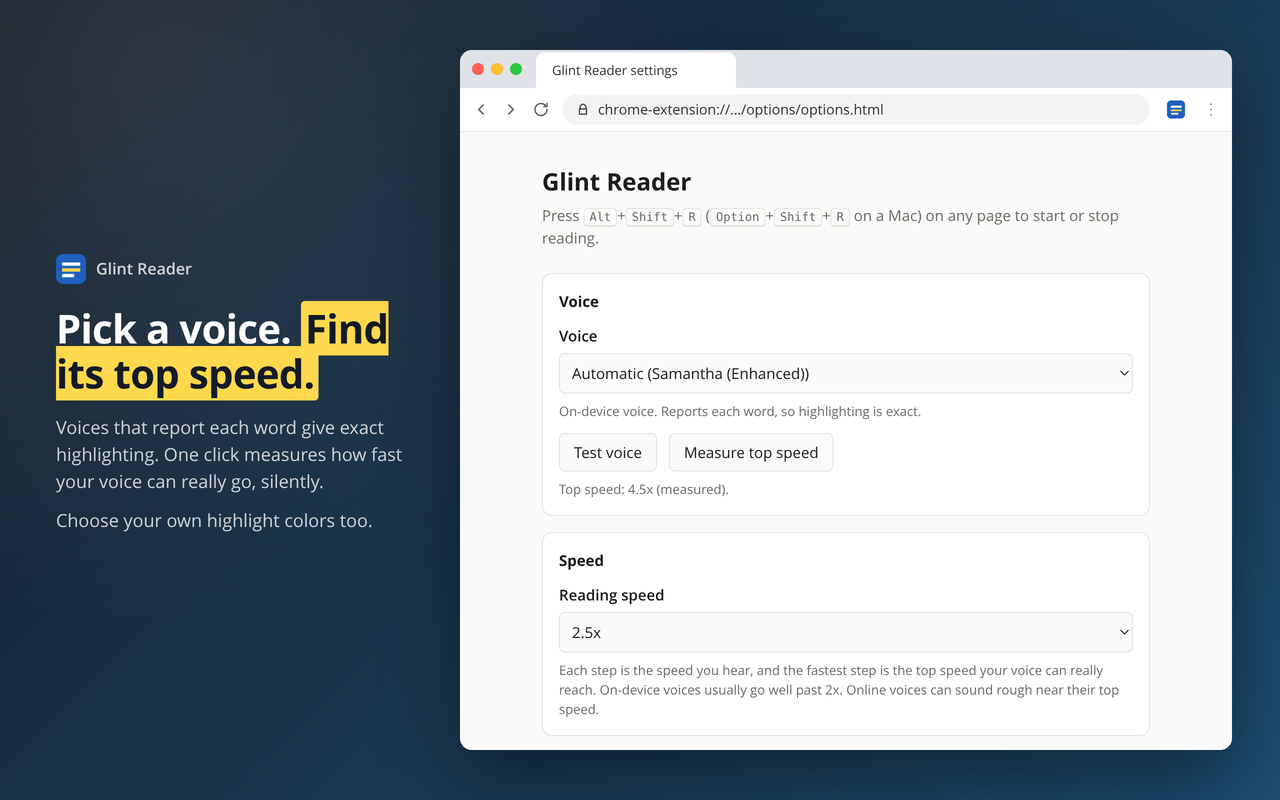
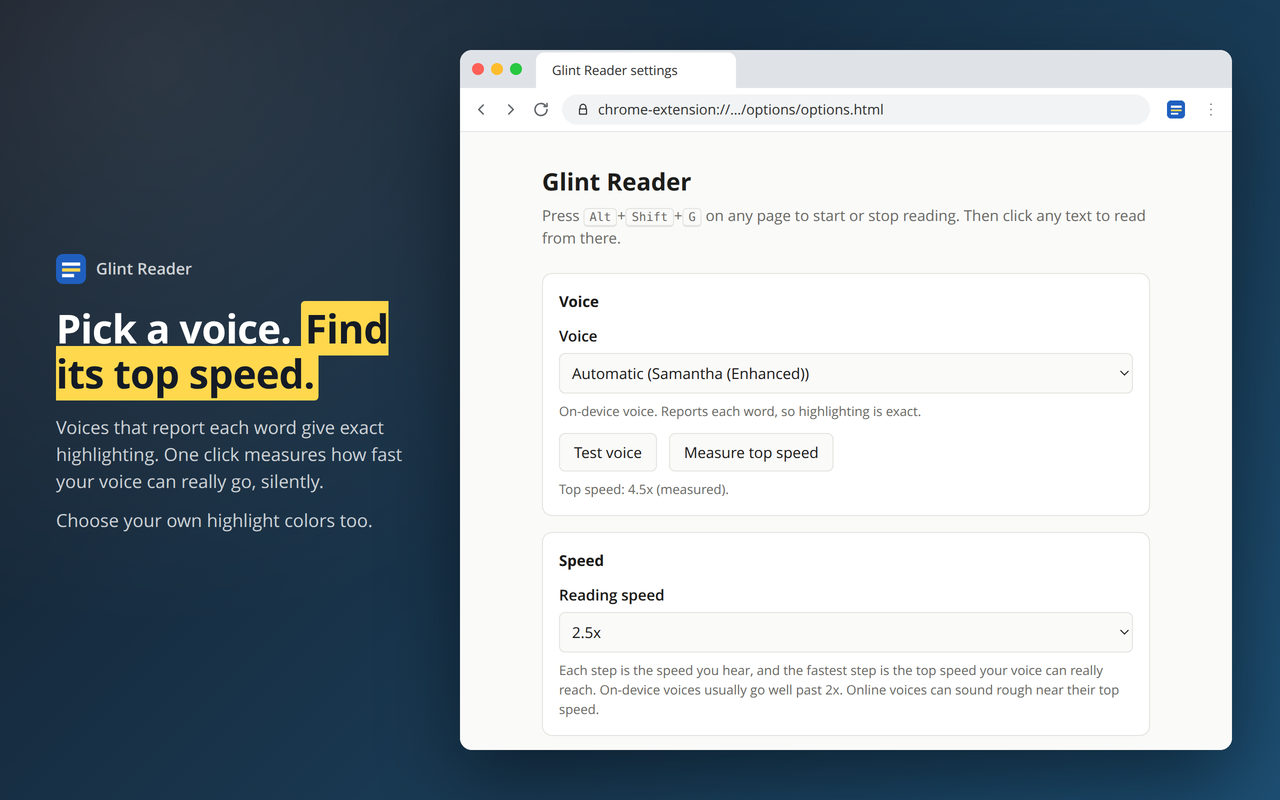
Make the start shortcut Alt+Shift+G, since Chrome reserves Alt+Shift+R (v0.2.9)
Chrome never assigned Alt+Shift+R, so the start shortcut never worked. Alt+Shift+G is
assigned in a fresh profile and on update. The settings page and toolbar tooltip now show
the shortcut Chrome really assigned, and the settings page says when none is set.

diff --git a/src/options/options.html b/src/options/options.html
@@ -9,7 +9,7 @@
 <body>
   <main>
     <h1>Glint Reader</h1>
-    <p class="lede">Press <kbd>Alt</kbd>+<kbd>Shift</kbd>+<kbd>R</kbd> (<kbd>Option</kbd>+<kbd>Shift</kbd>+<kbd>R</kbd> on a Mac) on any page to start or stop reading.</p>
+    <p class="lede" id="lede">Press <span class="keys"><kbd>Alt</kbd>+<kbd>Shift</kbd>+<kbd>G</kbd></span> on any page to start or stop reading. Then click any text to read from there.</p>
 
     <section>
       <h2>Voice</h2>
@@ -43,7 +43,7 @@
       <h2>Keys while reading</h2>
       <table>
         <tbody>
-          <tr><td><kbd>Alt</kbd>+<kbd>Shift</kbd>+<kbd>R</kbd></td><td>Start or stop on the current tab</td></tr>
+          <tr><td class="keys"><kbd>Alt</kbd>+<kbd>Shift</kbd>+<kbd>G</kbd></td><td>Start or stop on the current tab</td></tr>
           <tr><td>Click text</td><td>Read from that word (<kbd>Alt</kbd>+click on links)</td></tr>
           <tr><td><kbd>Space</kbd></td><td>Pause or resume</td></tr>
           <tr><td><kbd>→</kbd> / <kbd>←</kbd></td><td>Next or previous sentence</td></tr>
@@ -54,6 +54,7 @@
           <tr><td>Corner controls</td><td>Hover the pill in the bottom-right corner to pause, change speed, open settings, or stop</td></tr>
         </tbody>
       </table>
+      <p class="hint" id="shortcut-note"></p>
       <button id="shortcuts" type="button">Change the start shortcut</button>
     </section>
   </main>

diff --git a/src/options/options.js b/src/options/options.js
@@ -96,7 +96,29 @@ async function test() {
   });
 }
 
+// Show the start shortcut Chrome really assigned. It may be one the user picked, or none at
+// all when another extension already had the key.
+async function showShortcut() {
+  const cmd = (await chrome.commands?.getAll?.())?.find(c => c.name === 'toggle-reader');
+  if (!cmd) return;
+  const keys = cmd.shortcut ? (cmd.shortcut.includes('+') ? cmd.shortcut.split('+') : [...cmd.shortcut]) : [];
+  for (const el of document.querySelectorAll('.keys')) {
+    el.replaceChildren();
+    if (!keys.length) { el.textContent = 'your start shortcut'; continue; }
+    keys.forEach((k, i) => {
+      if (i && cmd.shortcut.includes('+')) el.append('+');
+      const kbd = document.createElement('kbd');
+      kbd.textContent = k;
+      el.append(kbd);
+    });
+  }
+  $('shortcut-note').textContent = keys.length ? '' :
+    'No start shortcut is set, so another extension may be using it. Choose one below, or click the toolbar icon.';
+}
+
 async function init() {
+  showShortcut();
+  addEventListener('focus', showShortcut); // back from Chrome's shortcuts page
   settings = await chrome.storage.sync.get(C.DEFAULTS);
   voices = await chrome.tts.getVoices();
   fillVoices();

diff --git a/site/index.html b/site/index.html
@@ -129,7 +129,7 @@
       <h2>Three seconds to start listening</h2>
       <div class="steps">
         <div class="step"><h3>Open any page</h3><p>An article, a report, documentation, or a long email in your browser.</p></div>
-        <div class="step"><h3>Press Alt+Shift+R</h3><p>Or click the toolbar icon. On a Mac it's Option+Shift+R. Reading starts at the top of what you can see.</p></div>
+        <div class="step"><h3>Press Alt+Shift+G</h3><p>Or click the toolbar icon. On a Mac it's Option+Shift+G. Reading starts at the top of what you can see.</p></div>
         <div class="step"><h3>Follow along</h3><p>Each word lights up as it's spoken. Click any word to jump there. Press the shortcut again to stop.</p></div>
       </div>
 

diff --git a/src/background/service-worker.js b/src/background/service-worker.js
@@ -12,6 +12,14 @@ chrome.commands.onCommand.addListener((cmd, tab) => {
   if (cmd === 'toggle-reader') toggle(tab);
 });
 
+// Name the shortcut Chrome really assigned in the toolbar tooltip, since the user can change
+// it, and Chrome leaves it unset when another extension already has the key.
+async function showShortcut() {
+  const cmd = (await chrome.commands.getAll()).find(c => c.name === 'toggle-reader');
+  chrome.action.setTitle({ title: cmd?.shortcut ? `Glint Reader (${cmd.shortcut})` : 'Glint Reader' });
+}
+showShortcut();
+
 async function activeTab(tab) {
   if (tab?.id != null) return tab;
   const [t] = await chrome.tabs.query({ active: true, lastFocusedWindow: true });

diff --git a/store/screenshots/shot2-click.html b/store/screenshots/shot2-click.html
@@ -6,7 +6,7 @@
   <div class="eyebrow"><img src="../src/icons/icon128.png" alt="">Glint Reader</div>
   <h1>Click any word to <mark>start there.</mark></h1>
   <p>Reading picks up from the word you click. Links still work, and Alt+click reads a link instead of opening it.</p>
-  <p>Press Alt+Shift+R, or click the toolbar icon, to start or stop.</p>
+  <p>Press Alt+Shift+G, or click the toolbar icon, to start or stop.</p>
 </div>
 <div class="browser" data-tab="How to read a long report" data-url="fieldnotes.example.com/working-better/long-reports" data-badge="ON"><iframe src="article.html?el=p3&word=glance&rate=1.5&cursor" title="Page"></iframe></div>
 <script src="frame.js"></script>

diff --git a/store/screenshots/options-stub.js b/store/screenshots/options-stub.js
@@ -16,4 +16,5 @@ globalThis.chrome = {
   },
   runtime: { sendMessage: async () => ({}) },
   tabs: { create: () => {} },
+  commands: { getAll: async () => [{ name: 'toggle-reader', shortcut: 'Alt+Shift+G' }] },
 };

diff --git a/notes/PLAN.md b/notes/PLAN.md
@@ -12,7 +12,7 @@ Status: v0.2.7 (renamed from Read in Place in 0.2.0). v0.1.2 was built and teste
 service worker (background/service-worker.js)
   owns chrome.tts: speak one sentence at a time, stop, voice info
   relays tts start/word/end/error events to the tab
-  toggle via chrome.commands (Alt+Shift+R) and the toolbar button; injects on demand
+  toggle via chrome.commands (Alt+Shift+G) and the toolbar button; injects on demand
   measures each voice's top speed silently (volume 0), stores it in storage.local
   opens the settings page for the corner controls
         ^  chrome.runtime messages  v
@@ -70,7 +70,7 @@ options page (options/options.html)
 
 | Action | Key | Corner controls |
 | --- | --- | --- |
-| Start / stop | Alt+Shift+R (Option+Shift+R on Mac), or the toolbar icon | ✕ stops |
+| Start / stop | Alt+Shift+G (Option+Shift+G on Mac), or the toolbar icon | ✕ stops |
 | Pause / resume | Space | ⏸ / ▶ |
 | Next / previous sentence | Right / Left | |
 | Next / previous paragraph | Down / Up | |
@@ -134,7 +134,7 @@ fine. Guards added for each member found:
   and screen-reader-only text until reading stops. Selected text is text the user can see.
 - Selections inside an iframe (email clients that sandbox the message in a frame): the
   right-click menu now runs the reader in the frame the selection is in, and speech events go
-  back to that frame. Alt+Shift+R and the toolbar button go to the frame that is reading.
+  back to that frame. The start shortcut and the toolbar button go to the frame that is reading.
 - Selections starting on skipped text (a citation, a button) were already handled by
   `rangePoints()`.
 
@@ -193,3 +193,18 @@ no other way to color it, and it is fully undone on stop. The test suite forces 
 
 - Rebindable in-page keys.
 - Chrome Web Store listing (needs a privacy policy and screenshots).
+
+## Start shortcut (0.2.9)
+
+The start shortcut was Alt+Shift+R until 0.2.9, but Chrome reserves that key for itself and
+silently never assigned it, so the shortcut never worked. Checked by loading the extension in
+a fresh profile and reading `extensions.commands` in its Preferences: Alt+Shift+R stays
+unassigned, while Alt+Shift+G, Alt+Shift+L, Alt+G, Alt+R, Ctrl+Shift+1, and Alt+Shift+Period
+are assigned. An update that changes the suggested key does assign the new one.
+
+Alt+Shift+G (G for Glint) avoids the defaults of common extensions: Read Aloud (Alt+P, Alt+O,
+Alt+Period, Alt+Comma), Okta (Alt+O), Bitwarden (Ctrl+Shift+U, L, 9), Dark Reader
+(Alt+Shift+D, A), and Loom (Alt+Shift+L). Chrome never steals a key another extension already
+holds; it leaves ours unset instead. So the settings page and the toolbar tooltip show the
+shortcut Chrome really assigned, and the settings page says when none is set.
+

diff --git a/CHROMEWEBSTORE.md b/CHROMEWEBSTORE.md
@@ -140,6 +140,7 @@ https://navica.llc/tools/glint-reader/ (also the manifest `homepage_url`)
 
 | Version | Date | Changes | Status |
 |---------|------|---------|--------|
+| 0.2.9 | 2026-11-13 | The start shortcut is now Alt+Shift+G (Option+Shift+G on a Mac). Chrome reserves Alt+Shift+R, so the old shortcut never worked. The settings page and toolbar tooltip show the shortcut Chrome assigned, and say when none is set. | Draft |
 | 0.2.7 | 2026-11-12 | Built-in voices are never measured: the settings page no longer runs a minute of silent measuring, and their top speed is 4x. No more errors when a tab closes while reading. | Draft |
 | 0.2.6 | 2026-11-12 | Reads text inside web components (open shadow roots), such as MSN articles and Salesforce-style apps. Highlighting, clicks, the right-click menu, and scrolling work there too. Adds four built-in voices (Kokoro-82M, English) that run on the device, with exact word highlighting. Adds the ttsEngine and offscreen permissions. Now open source under GPL-3.0. | Draft |
 | 0.2.5 | 2026-11-12 | Reads email bodies in Karbon and other pages that wrap text in display: contents, text shown inside a hidden box, and selections inside frames. | Draft |

diff --git a/README.md b/README.md
@@ -7,13 +7,13 @@ reflow. Click where you want it to start, jump around with keys, and watch each 
 highlight on the real page as it's spoken. Speed goes from 0.5x up to the fastest your
 voice can really go, which is usually well past 2x for on-device voices.
 
-Status: v0.2.7. Design notes and decisions are in `notes/PLAN.md`.
+Status: v0.2.9. Design notes and decisions are in `notes/PLAN.md`.
 
 ## Install
 
 1. Open `chrome://extensions` and turn on Developer mode.
 2. Click Load unpacked and pick the `src/` folder.
-3. On any page press Alt+Shift+R (Option+Shift+R on a Mac), or click the toolbar icon.
+3. On any page press Alt+Shift+G (Option+Shift+G on a Mac), or click the toolbar icon.
 
 After pulling changes, click the reload icon on the extension's card, then refresh any tab
 where it was running.

diff --git a/docs/LAUNCH.md b/docs/LAUNCH.md
@@ -34,7 +34,7 @@ All dashboard text, assets, permission justifications, and data use answers are 
 - [x] Manifest: bump `version` (0.2.0), add `homepage_url`, and set `description` to the summary
 - [ ] Test by hand from `src/` unpacked: shortcut, toolbar icon, settings, measure top speed.
   On Linux, use Google's .deb Chrome, not the Flatpak, which has no voices.
-- [x] Test suite passes (`test/index.html?auto`), 67 of 67 in 0.2.7
+- [x] Test suite passes (`test/index.html?auto`), 67 of 67 in 0.2.9
 - [x] Landing page and privacy page live on navica.llc (`navica-marketing` PR #86)
 - [ ] Copy the 0.2.4 privacy policy change (right-click menu, effective 2026-11-12) to the live
   privacy page in `navica-marketing`
